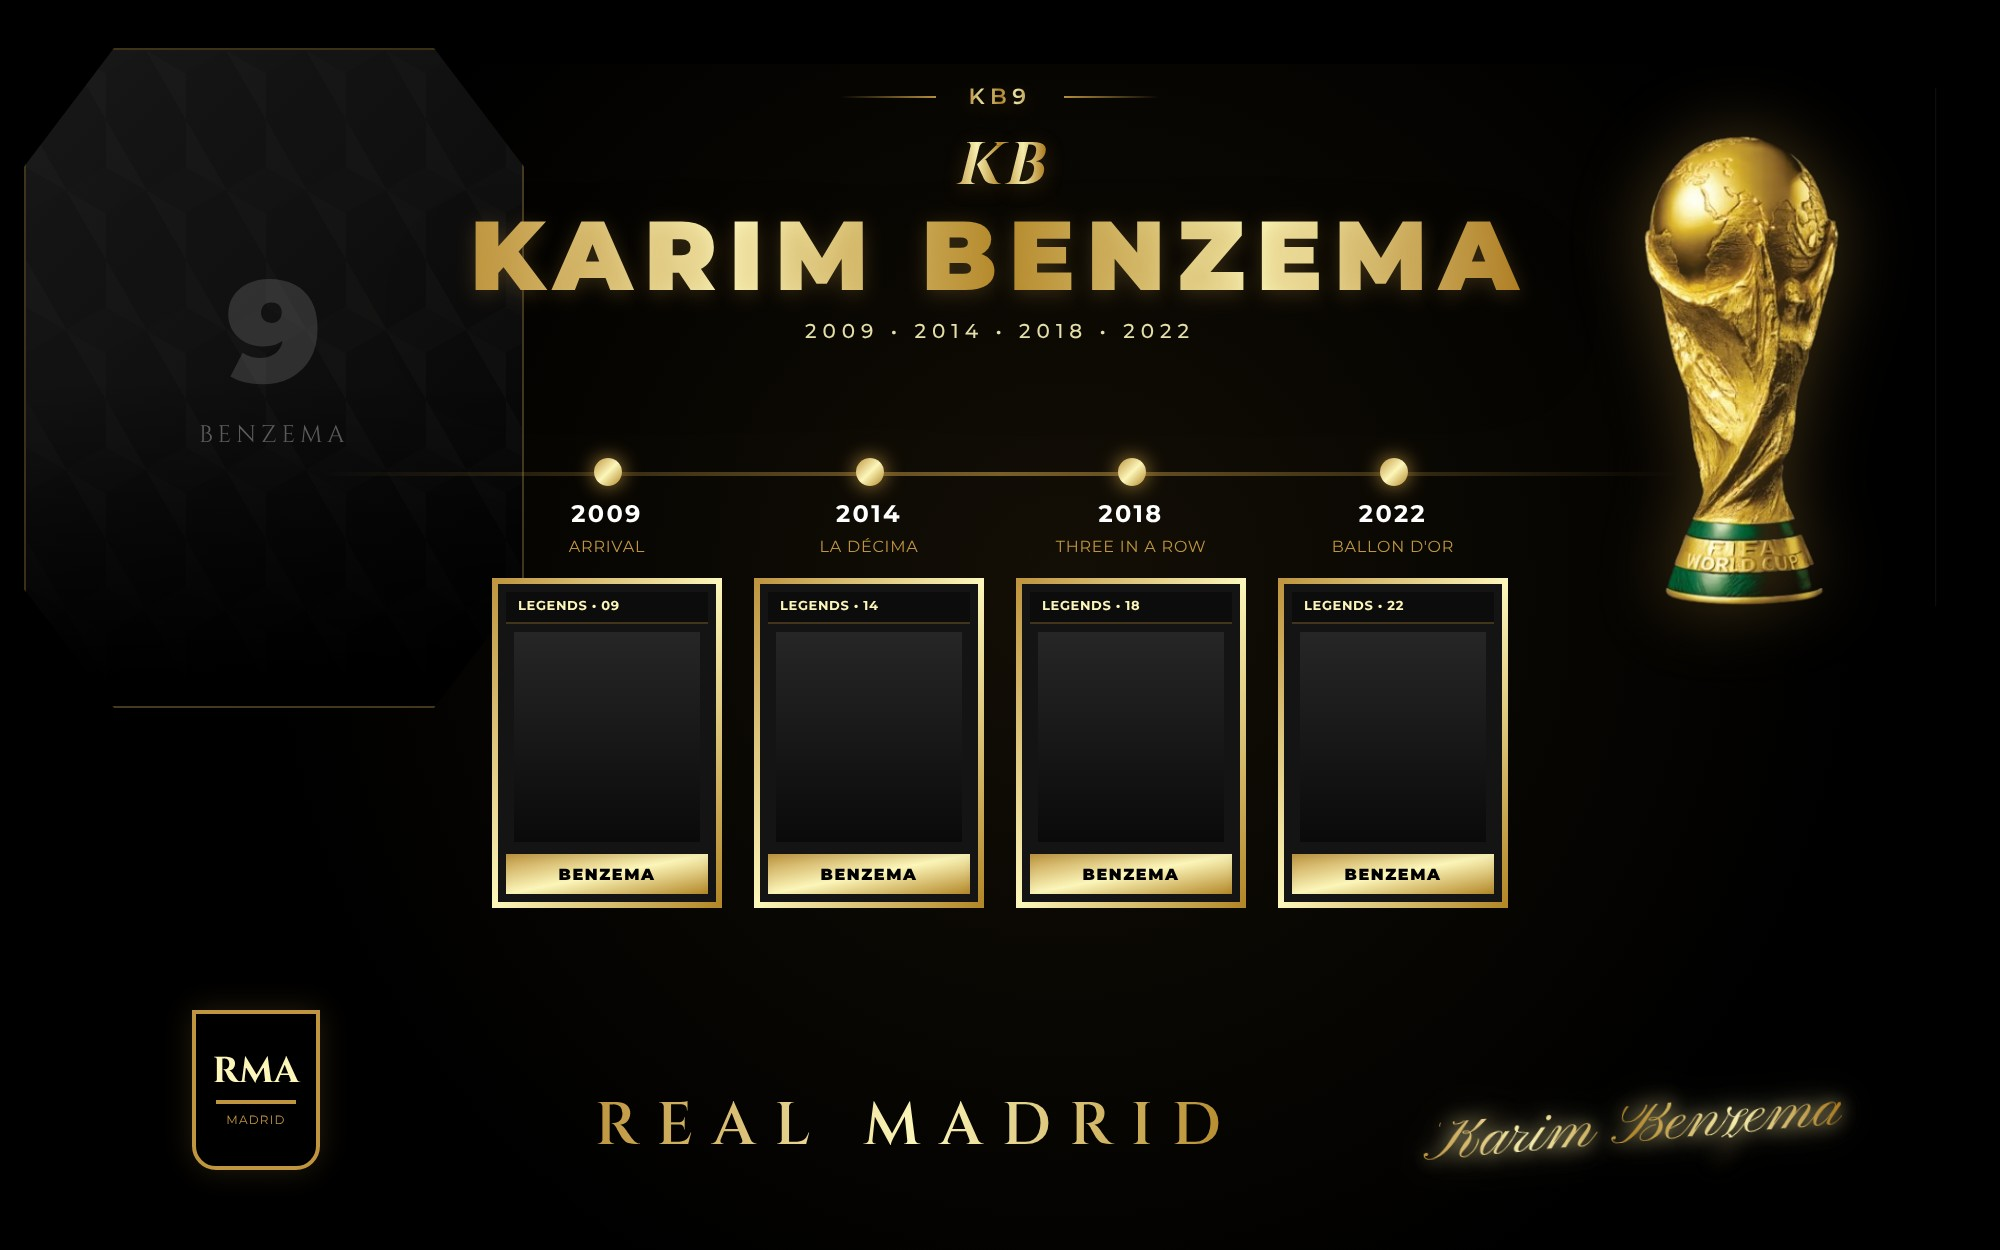
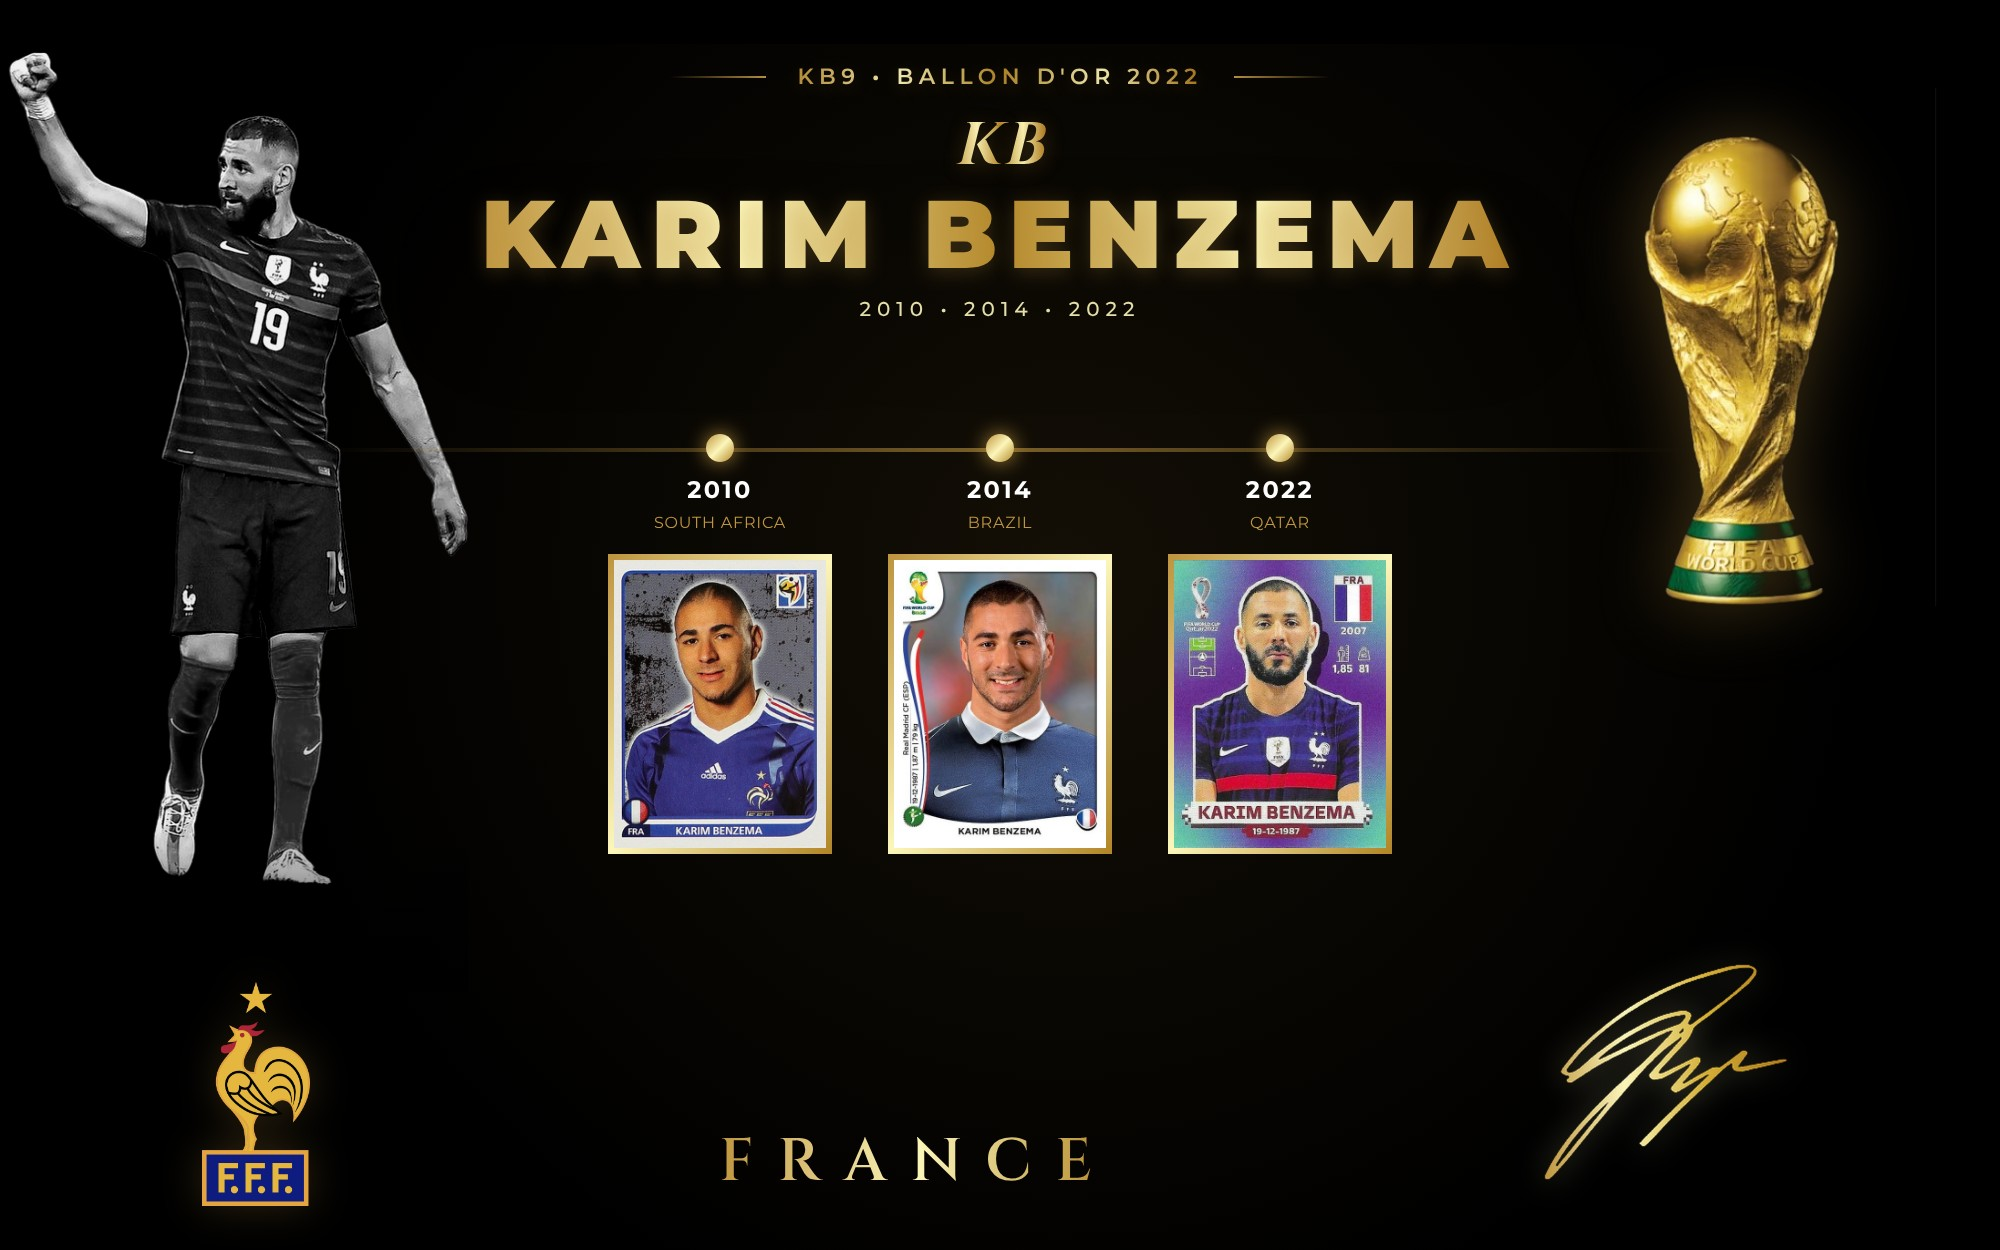
Benzema edition: three World Cup stickers, photo, signature, FFF crest; Kroos gets the DFB crest
Claude-Session: https://claude.ai/code/session_012KLzXvbSNPDSfqsEgnNbVN

diff --git a/index.html b/index.html
@@ -670,16 +670,15 @@
         ]
       },
       benzema: {
-        id: 'benzema', status: 'coming_soon', journey: 'career', price: 45, compare: 69.99, photos: [], video: '', poster: '', slug: 'benzema', monogram: 'KB', fullName: 'Karim Benzema', nation: 'France',
-        shortTitle: 'Karim Benzema Edition', eraSpan: '2009–2022', accentGlow: '#F5F5F5', artwork: '/uploads/editions/benzema/artwork.jpg',
-        editionName: 'KB — The Career Tribute (2009–2022)',
-        heroHeadline: 'The Career of <span class="text-gold-gradient">Benzema</span>, Framed in Gold Foil',
-        heroSubheadline: "Four chapters of a legendary career, 2009 to 2022, in one framed shadow box with gold foil accents.", quote: '"KB9."', story1Copy: "From joining Real Madrid in 2009 to winning the Ballon d’Or in 2022, every chapter of Karim Benzema’s Madrid story sits in order inside one frame.", signatureText: 'Karim Benzema',
+        id: 'benzema', status: 'active', journey: 'worldcup', price: 45, compare: 69.99, photos: [], video: '', poster: '', slug: 'benzema', monogram: 'KB', fullName: 'Karim Benzema', nation: 'France',
+        shortTitle: 'Karim Benzema Edition', eraSpan: '2010–2022', accentGlow: '#1E3A8A', artwork: '/uploads/editions/benzema/artwork.jpg',
+        editionName: 'KB — The World Cup Journey (2010–2022)',
+        heroHeadline: 'The World Cup Story of <span class="text-gold-gradient">Benzema</span>, Framed in Gold Foil',
+        heroSubheadline: "Three World Cup stickers, from South Africa 2010 to Qatar 2022, in one framed shadow box with gold foil accents.", quote: "\"KB9. Ballon d’Or 2022.\"", story1Copy: "From the 2010 sticker album to arriving in Qatar as the reigning Ballon d’Or winner, Karim Benzema’s World Cup story with France sits in order inside one frame.", signatureText: 'Karim Benzema',
         cards: [
-          { year: '2009', tournament: "REAL MADRID 2009", jerseyNo: '#9', kitPrimary: '#1F2937', kitAccent: '#F5F5F5', badge: "THE ARRIVAL", stage: "Real Madrid", desc: "Joined Real Madrid from Lyon in 2009.", area: '24.60,46.28,11.50,26.40' },
-          { year: '2014', tournament: "LISBON 2014", jerseyNo: '#9', kitPrimary: '#1F2937', kitAccent: '#F5F5F5', badge: "LA DÉCIMA", stage: "Champions League", desc: "Won Real Madrid’s tenth European Cup.", area: '37.70,46.28,11.50,26.40' },
-          { year: '2018', tournament: "KYIV 2018", jerseyNo: '#9', kitPrimary: '#1F2937', kitAccent: '#F5F5F5', badge: "THREE IN A ROW", stage: "Champions League", desc: "Scored in the final as Real Madrid won a third straight Champions League.", area: '50.80,46.28,11.50,26.40' },
-          { year: '2022', tournament: "PARIS 2022", jerseyNo: '#9', kitPrimary: '#1F2937', kitAccent: '#F5F5F5', badge: "BALLON D’OR", stage: "Ballon d’Or", desc: "Led Real Madrid to La Liga and the Champions League, then won the Ballon d’Or.", area: '63.90,46.28,11.50,26.40' }
+          { year: '2010', tournament: "SOUTH AFRICA 2010", jerseyNo: "—", kitPrimary: '#1E3A8A', kitAccent: '#D4AF37', badge: "THE STICKER", stage: "Not selected", desc: "In the 2010 sticker album, but left out of France’s final squad for South Africa.", image: '/uploads/editions/benzema/card-2010.jpg', area: '30.40,44.36,11.20,24.00' },
+          { year: '2014', tournament: "BRAZIL 2014", jerseyNo: "#10", kitPrimary: '#1E3A8A', kitAccent: '#D4AF37', badge: "THREE GOALS", stage: "Quarter-final", desc: "Scored three goals as France reached the quarter-finals in Brazil.", image: '/uploads/editions/benzema/card-2014.jpg', area: '44.40,44.36,11.20,24.00' },
+          { year: '2022', tournament: "QATAR 2022", jerseyNo: "#19", kitPrimary: '#1E3A8A', kitAccent: '#D4AF37', badge: "BALLON D’OR", stage: "Injured", desc: "Named in the squad as the reigning Ballon d’Or winner, but a thigh injury ruled him out on the eve of the tournament.", image: '/uploads/editions/benzema/card-2022.jpg', area: '58.40,44.36,11.20,24.00' }
         ]
       }
     };
